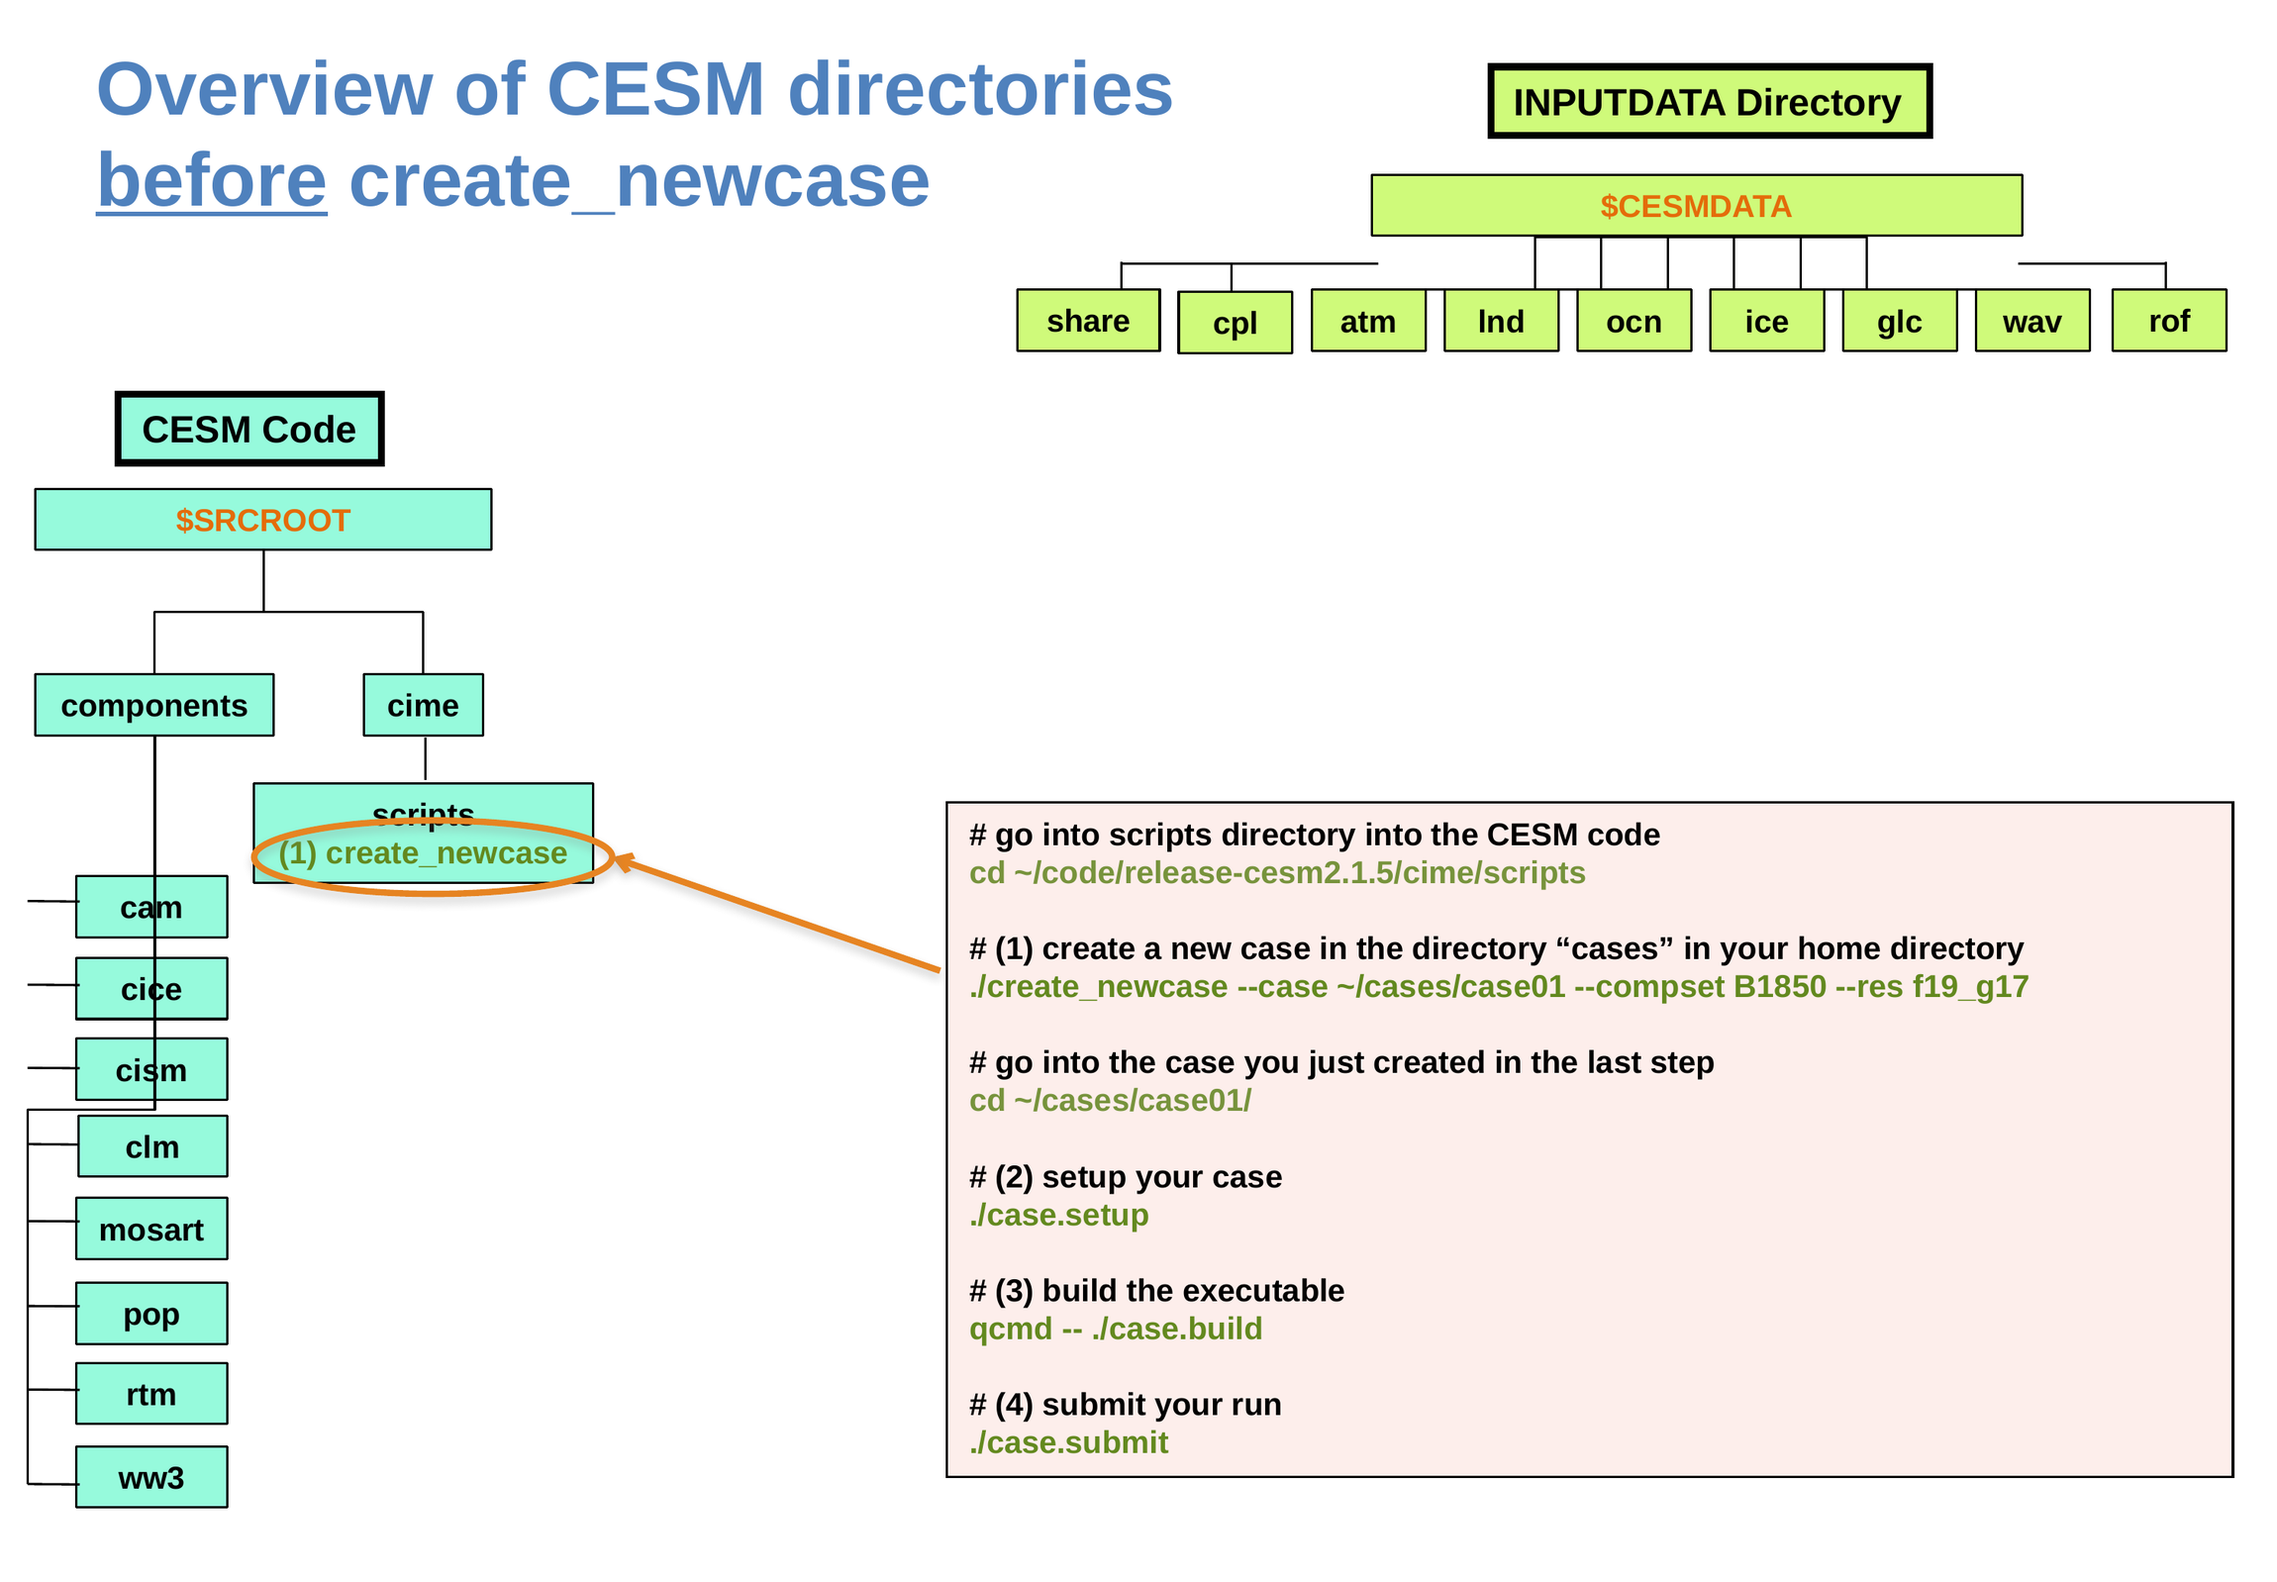
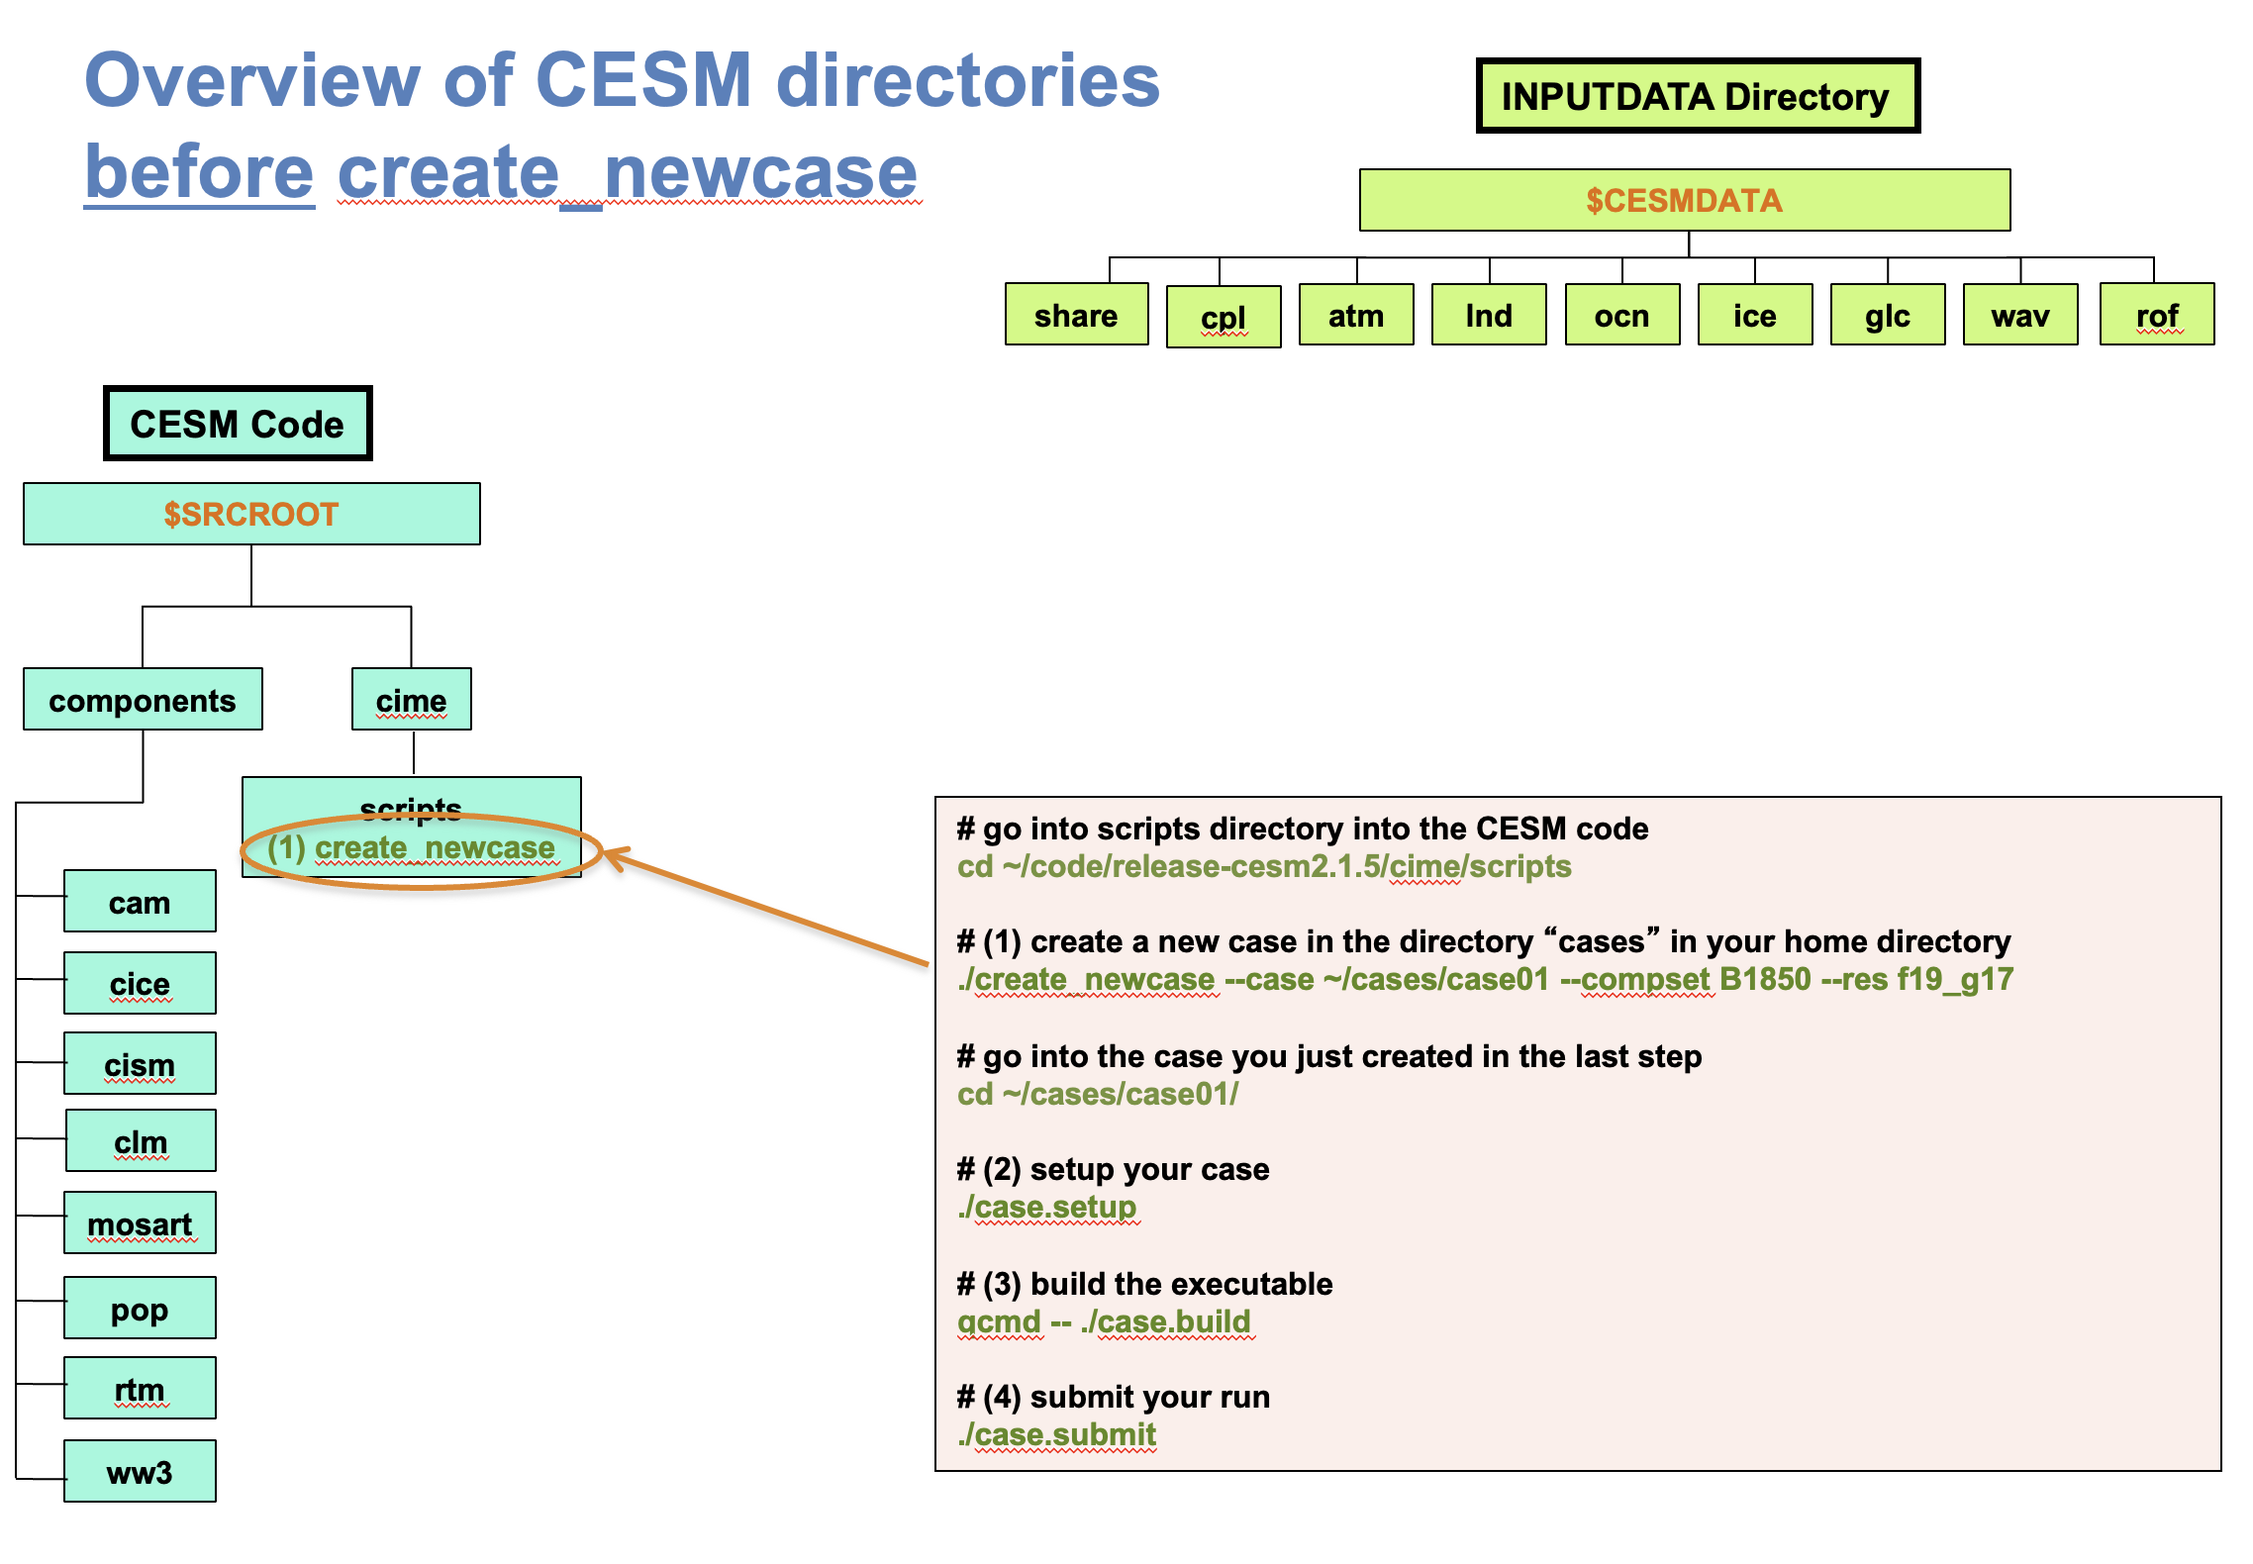
Restore Cécile's original chapter 4 figures

diff --git a/Notes.md b/Notes.md
@@ -115,12 +115,10 @@ look at output, and the "why use CESM" aside). Modeled on
   directory diagrams, so the job-following and "did it work" material moved to a new
   `4.2_did_it_work.ipynb`; compsets/grids and Exercise 1 became `4.3` / `4.4`. Cross-links
   in 2.2, 5.3, 9.1, 11.4 were retargeted (the CaseStatus/log-check links now point at 4.2).
-- Cécile's screenshots of slides 17, 19–24, 26 carried PowerPoint's red spell-check
-  squiggles. They were re-rendered from `Tutorial-CESM-CU-2026.pptx` with the LibreOffice
-  pipeline above (banner cropped at row 2085 of 2250, downscaled to ~2300 px wide). The
-  "CLM" underline inside the create_newcase-arguments figure is part of an embedded picture
-  in the slide itself and was patched pixel-wise. If she re-exports from PowerPoint, turn
-  off "check spelling as you type" first.
+- Cécile's screenshots of slides 17, 19–24, 26 carry PowerPoint's red spell-check squiggles.
+  A LibreOffice re-render was tried (12 Oct 2026) but she rejected the result ("screwed up")
+  and her originals were restored. Do not redo this; if she wants clean figures, she will
+  re-export from PowerPoint with "check spelling as you type" turned off.
 
 ## Open items / things to confirm with Cécile
 
